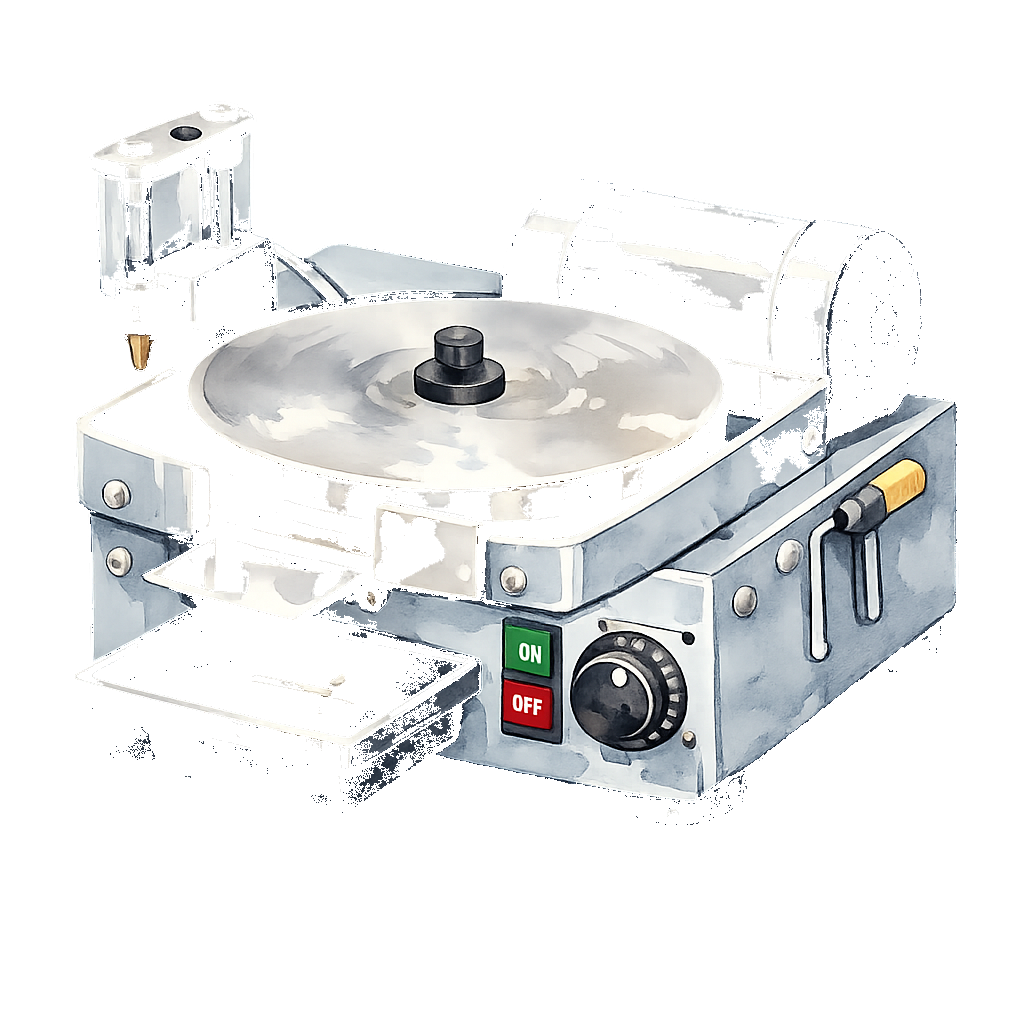
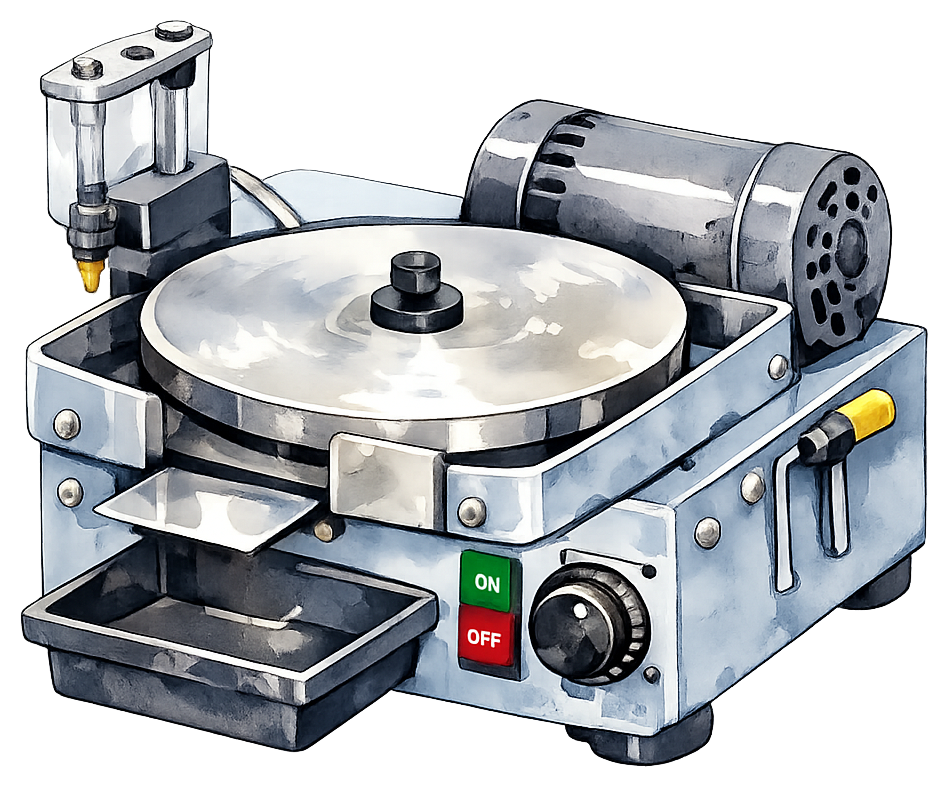
527

diff --git a/styles.css b/styles.css
@@ -14054,3 +14054,103 @@ html[data-device-class="phone"][data-orientation="landscape"] body:not([data-scr
 .gray-hood-aquarium-reward img{width:min(620px,86vw);max-height:55vh;object-fit:contain}.gray-hood-aquarium-reward strong{font-size:clamp(28px,5vw,54px)}.gray-hood-aquarium-reward span{font-size:clamp(18px,2.5vw,28px)}
 .aquarium-game-screen{position:fixed;inset:0;z-index:50;background:#02070b}.aquarium-game-frame{width:100%;height:100%;border:0;display:block}.aquarium-game-close{position:fixed;z-index:52;top:max(10px,env(safe-area-inset-top));left:max(10px,env(safe-area-inset-left));border:1px solid rgba(255,255,255,.45);border-radius:999px;background:rgba(0,0,0,.72);color:#fff;padding:10px 16px;font-weight:700}
 @media (orientation:portrait){.gray-hood-character-area{inset:5% 0 24%}.gray-hood-character-area img{max-width:92vw;max-height:72%}.gray-hood-aquarium-reward img{max-height:42vh}}
+
+/* v0.10.525: クイズ王4択画面を人物中心の縦配置へ再調整
+   - 人物を上部〜中央へ大きく表示
+   - 問題枠は内容量に合わせて画面下へ配置
+   - 問題文と選択肢の間に生じていた大きな空白を解消 */
+@media (orientation:portrait), (max-aspect-ratio:1/1){
+  html[data-device-class="phone"][data-orientation="portrait"] body[data-screen="okachimachiQuiz"] .okachimachi-quiz-event.quiz-stage-question{
+    display:grid!important;
+    grid-template-columns:minmax(0,1fr)!important;
+    grid-template-rows:minmax(0,1fr) auto!important;
+    align-items:stretch!important;
+    gap:clamp(3px,.8vh,7px)!important;
+    padding:max(4px,var(--safe-top,0px)) clamp(5px,1.8vw,8px) max(5px,var(--safe-bottom,0px))!important;
+    overflow:hidden!important;
+  }
+
+  html[data-device-class="phone"][data-orientation="portrait"] body[data-screen="okachimachiQuiz"] .okachimachi-quiz-event.quiz-stage-question .quiz-character-area{
+    grid-column:1!important;
+    grid-row:1!important;
+    position:relative!important;
+    inset:auto!important;
+    width:100%!important;
+    height:100%!important;
+    min-width:0!important;
+    min-height:0!important;
+    padding:clamp(3px,.8vh,9px) 0 0!important;
+    display:flex!important;
+    align-items:center!important;
+    justify-content:center!important;
+    overflow:hidden!important;
+    transform:none!important;
+  }
+
+  html[data-device-class="phone"][data-orientation="portrait"] body[data-screen="okachimachiQuiz"] .okachimachi-quiz-event.quiz-stage-question .quiz-character-image{
+    display:block!important;
+    width:min(94vw,430px)!important;
+    height:100%!important;
+    min-width:0!important;
+    min-height:0!important;
+    max-width:94vw!important;
+    max-height:100%!important;
+    margin:auto!important;
+    object-fit:contain!important;
+    object-position:center center!important;
+    transform:none!important;
+    transform-origin:center center!important;
+  }
+
+  html[data-device-class="phone"][data-orientation="portrait"] body[data-screen="okachimachiQuiz"] .okachimachi-quiz-event.quiz-stage-question .quiz-question-panel{
+    grid-column:1!important;
+    grid-row:2!important;
+    align-self:end!important;
+    justify-self:stretch!important;
+    display:flex!important;
+    flex-direction:column!important;
+    width:100%!important;
+    height:auto!important;
+    min-height:0!important;
+    max-width:none!important;
+    max-height:min(48dvh,430px)!important;
+    margin:0!important;
+    padding:10px 10px 12px!important;
+    gap:7px!important;
+    overflow-y:auto!important;
+    overscroll-behavior:contain!important;
+  }
+
+  html[data-device-class="phone"][data-orientation="portrait"] body[data-screen="okachimachiQuiz"] .okachimachi-quiz-event.quiz-stage-question .quiz-question-kicker{
+    flex:0 0 auto!important;
+    align-self:flex-start!important;
+    margin:0!important;
+  }
+
+  html[data-device-class="phone"][data-orientation="portrait"] body[data-screen="okachimachiQuiz"] .okachimachi-quiz-event.quiz-stage-question .quiz-question-panel h2{
+    flex:0 0 auto!important;
+    margin:0!important;
+  }
+
+  html[data-device-class="phone"][data-orientation="portrait"] body[data-screen="okachimachiQuiz"] .okachimachi-quiz-event.quiz-stage-question .quiz-answer-grid{
+    flex:0 0 auto!important;
+    width:100%!important;
+    margin-top:0!important;
+    align-content:start!important;
+  }
+}
+
+@media (orientation:portrait) and (max-height:650px){
+  html[data-device-class="phone"][data-orientation="portrait"] body[data-screen="okachimachiQuiz"] .okachimachi-quiz-event.quiz-stage-question .quiz-question-panel{
+    max-height:52dvh!important;
+    padding:8px 9px 9px!important;
+    gap:5px!important;
+  }
+  html[data-device-class="phone"][data-orientation="portrait"] body[data-screen="okachimachiQuiz"] .okachimachi-quiz-event.quiz-stage-question .quiz-answer-grid{
+    gap:6px!important;
+  }
+  html[data-device-class="phone"][data-orientation="portrait"] body[data-screen="okachimachiQuiz"] .okachimachi-quiz-event.quiz-stage-question .quiz-answer-button{
+    min-height:52px!important;
+    padding:.44rem .55rem!important;
+  }
+}

diff --git a/sw.js b/sw.js
@@ -1,9 +1,9 @@
-const VERSION = '0.10.524';
+const VERSION = '0.10.527';
 const APP_CACHE = `jewelrygame-app-v${VERSION}`;
 const RUNTIME_CACHE = `jewelrygame-runtime-v${VERSION}`;
 const APP_SHELL = [
-  './', './index.html', './game.html', './auth.html', './viewport-shell.css', './viewport-shell.js', './styles.css',
-  './manifest.webmanifest', './js/app.js', './js/audio.js', './js/audio-scene-map.js', './js/game-data.js', './js/kaitenzushi-embedded.js?v=0.10.524', './js/daily-gems.js?v=0.10.524', './js/japan-holidays.js', './js/firebase-config.js', './js/google-auth-bridge.js',
+  './', './index.html', './game.html', './auth.html', './hosting-origin-guard.js', './viewport-shell.css', './viewport-shell.js', './styles.css',
+  './manifest.webmanifest', './js/app.js', './js/audio.js', './js/audio-scene-map.js', './js/game-data.js', './js/kaitenzushi-embedded.js?v=0.10.527', './js/daily-gems.js?v=0.10.527', './js/japan-holidays.js', './js/firebase-config.js', './js/google-auth-bridge.js',
   './js/security-config.js', './js/firebase-service.js', './data/metals.json', './data/jewelry_okachimachi_quiz_200_game_format.json',
   './data/daily-gems-365.json', './data/cinema-event-videos.json', './assets/minigames/kaitenzushi/game/index.html', './assets/images/main.webp', './assets/images/main-portrait.webp', './assets/images/main-menu.webp', './assets/images/main-menu-portrait.webp', './assets/images/today-gem.webp',
   './assets/images/tools/placeholder.svg', './assets/images/tools/jewelry-bench.png', './assets/images/tools/loupe.png', './assets/images/tools/gem-polishing-machine.png', './assets/images/tools/diamond-polishing-lap.png', './assets/images/tools/piercing-saw.png', './assets/images/tools/nipper.png', './assets/images/tools/electronic-scale.png', './assets/images/tools/wood-block.png', './assets/images/tools/dividers.png', './assets/images/tools/milgrain-tool.png', './assets/images/tools/rolling-mill.png', './assets/images/tools/file.png', './assets/images/tools/pliers.png', './assets/images/tools/torch.png', './assets/images/tools/hammer.png', './assets/images/tools/magnifier.png', './assets/images/tools/bench-peg.png', './assets/images/tools/graver.png', './assets/images/tools/engraving-block.png', './assets/images/tools/stamps.png', './assets/images/tools/rotary-tool.png', './assets/images/tools/buffer.png', './assets/images/tools/ultrasonic-cleaner.png', './assets/images/events/indian-restaurant-manager.png', './assets/images/robbery-newspaper.webp', './assets/images/equipment/basic-pickaxe.png', './assets/images/customers/customer-placeholder.svg',
@@ -15,9 +15,9 @@ const APP_SHELL = [
 ];
 
 const CORE_SHELL = [
-  './', './index.html', './game.html', './viewport-shell.css', './viewport-shell.js', './styles.css',
+  './', './index.html', './game.html', './hosting-origin-guard.js', './viewport-shell.css', './viewport-shell.js', './styles.css',
   './manifest.webmanifest', './js/app.js', './js/audio.js', './js/audio-scene-map.js', './js/game-data.js',
-  './js/kaitenzushi-embedded.js?v=0.10.524', './js/daily-gems.js?v=0.10.524', './js/japan-holidays.js', './js/firebase-config.js',
+  './js/kaitenzushi-embedded.js?v=0.10.527', './js/daily-gems.js?v=0.10.527', './js/japan-holidays.js', './js/firebase-config.js',
   './js/google-auth-bridge.js', './js/security-config.js', './js/firebase-service.js',
 ];
 

diff --git a/index.html b/index.html
@@ -4,6 +4,7 @@
   <meta charset="utf-8">
   <meta name="viewport" content="width=device-width,initial-scale=1,viewport-fit=cover,user-scalable=no">
   <meta http-equiv="Content-Security-Policy" content="default-src 'self'; base-uri 'self'; object-src 'none'; script-src 'self' https://www.gstatic.com https://apis.google.com https://www.google.com https://www.recaptcha.net; style-src 'self' 'unsafe-inline'; img-src 'self' data: blob: https://www.gstatic.com https://*.googleusercontent.com; media-src 'self' blob:; font-src 'self' data:; connect-src 'self' https://*.googleapis.com https://*.firebaseio.com wss://*.firebaseio.com https://*.firebaseapp.com https://accounts.google.com https://*.google.com https://www.recaptcha.net https://*.gstatic.com; frame-src 'self' https://*.firebaseapp.com https://accounts.google.com https://www.google.com https://www.recaptcha.net; worker-src 'self' blob:; child-src 'self' blob:; manifest-src 'self'; form-action 'self' https://accounts.google.com; upgrade-insecure-requests">
+  <script src="./hosting-origin-guard.js?v=0.10.527"></script>
   <meta name="referrer" content="strict-origin-when-cross-origin">
   <meta name="theme-color" content="#130e09">
   <meta name="mobile-web-app-capable" content="yes">
@@ -14,20 +15,20 @@
   <link rel="manifest" href="./manifest.webmanifest">
   <link rel="icon" href="./assets/icons/favicon.png">
   <link rel="apple-touch-icon" href="./assets/icons/apple-touch-icon.png">
-  <link rel="stylesheet" href="./viewport-shell.css?v=0.10.524">
+  <link rel="stylesheet" href="./viewport-shell.css?v=0.10.527">
 </head>
 <body>
   <main id="viewport-safe-area" aria-label="JEWELRY×JEWELRY">
     <div id="device-stage">
       <iframe
         id="game-frame"
-        src="./game.html?v=0.10.524"
+        src="./game.html?v=0.10.527"
         title="JEWELRY×JEWELRY"
         allow="autoplay; clipboard-write; identity-credentials-get"
         referrerpolicy="strict-origin-when-cross-origin"
       ></iframe>
     </div>
   </main>
-  <script src="./viewport-shell.js?v=0.10.524"></script>
+  <script src="./viewport-shell.js?v=0.10.527"></script>
 </body>
 </html>

diff --git a/game.html b/game.html
@@ -4,6 +4,7 @@
   <meta charset="utf-8">
   <meta name="viewport" content="width=device-width,initial-scale=1,viewport-fit=cover,user-scalable=no">
   <meta http-equiv="Content-Security-Policy" content="default-src 'self'; base-uri 'self'; object-src 'none'; script-src 'self' 'nonce-jxj-kaitenzushi' https://www.gstatic.com https://apis.google.com https://www.google.com https://www.recaptcha.net; style-src 'self' 'unsafe-inline'; img-src 'self' data: blob: https://www.gstatic.com https://*.googleusercontent.com; media-src 'self' blob:; font-src 'self' data:; connect-src 'self' https://*.googleapis.com https://*.firebaseio.com wss://*.firebaseio.com https://*.firebaseapp.com https://accounts.google.com https://*.google.com https://www.recaptcha.net https://*.gstatic.com; frame-src 'self' https://*.firebaseapp.com https://accounts.google.com https://www.google.com https://www.recaptcha.net; worker-src 'self' blob:; child-src 'self' blob:; manifest-src 'self'; form-action 'self' https://accounts.google.com; upgrade-insecure-requests">
+  <script src="./hosting-origin-guard.js?v=0.10.527"></script>
   <meta name="referrer" content="strict-origin-when-cross-origin">
   <meta name="theme-color" content="#130e09">
   <meta name="mobile-web-app-capable" content="yes">
@@ -14,7 +15,7 @@
   <link rel="manifest" href="./manifest.webmanifest">
   <link rel="icon" href="./assets/icons/favicon.png">
   <link rel="apple-touch-icon" href="./assets/icons/apple-touch-icon.png">
-  <link rel="stylesheet" href="./styles.css?v=0.10.524">
+  <link rel="stylesheet" href="./styles.css?v=0.10.527">
 </head>
 <body>
   <div id="background-layer" aria-hidden="true"></div>
@@ -24,6 +25,6 @@
   <div id="modal-layer" class="hidden"></div>
   <div id="sleep-curtain" aria-hidden="true"></div>
   <div id="morning-brief" aria-live="polite"></div>
-  <script type="module" src="./js/app.js?v=0.10.524"></script>
+  <script type="module" src="./js/app.js?v=0.10.527"></script>
 </body>
 </html>

diff --git a/js/app.js b/js/app.js
@@ -7,8 +7,8 @@ import {
 import { configureAudio, unlockAudio, applyAudioSettings, switchAudio, updateMainEnvironment, playSfx, startPoliceSiren, stopPoliceSiren, vibrate, suspendAudio, resumeAudio, stopMealAudio, duckCurrentAmbient } from './audio.js';
 import { resolveAudioScene } from './audio-scene-map.js';
 import { japaneseHolidayName } from './japan-holidays.js';
-import { DAILY_GEM_PROFILES, dailyGemForDate } from './daily-gems.js?v=0.10.524';
-import { KAITENZUSHI_EMBEDDED_HTML } from './kaitenzushi-embedded.js?v=0.10.524';
+import { DAILY_GEM_PROFILES, dailyGemForDate } from './daily-gems.js?v=0.10.527';
+import { KAITENZUSHI_EMBEDDED_HTML } from './kaitenzushi-embedded.js?v=0.10.527';
 import {
   initializeFirebase, observeAuth, emailLogin, emailSignup, logout,
   needsEmailVerification, resendVerificationEmail, refreshAuthUser, requestPasswordReset, currentProviderKind,

diff --git a/hosting-origin-guard.js b/hosting-origin-guard.js
@@ -1,0 +1,19 @@
+(() => {
+  'use strict';
+
+  const LEGACY_HOST = 'cadgosho-dot.github.io';
+  const LEGACY_BASE_PATH = '/jewelrygame';
+  const CANONICAL_ORIGIN = 'https://jewelrygame.firebaseapp.com';
+
+  if (window.location.hostname !== LEGACY_HOST) return;
+
+  let targetPath = window.location.pathname || '/';
+  if (targetPath === LEGACY_BASE_PATH || targetPath === `${LEGACY_BASE_PATH}/`) {
+    targetPath = '/';
+  } else if (targetPath.startsWith(`${LEGACY_BASE_PATH}/`)) {
+    targetPath = targetPath.slice(LEGACY_BASE_PATH.length) || '/';
+  }
+
+  const target = `${CANONICAL_ORIGIN}${targetPath}${window.location.search}${window.location.hash}`;
+  window.location.replace(target);
+})();

diff --git a/js/game-data.js b/js/game-data.js
@@ -1,4 +1,4 @@
-export const VERSION = '0.10.524';
+export const VERSION = '0.10.527';
 export const SAVE_SCHEMA_VERSION = 1;
 export const DEFAULT_BIRTHDAY = '04-01';
 export const SAVE_KEY = 'jewelrygame-clean-v0.4.0';

diff --git a/CHANGELOG.md b/CHANGELOG.md
@@ -1,3 +1,29 @@
+# v0.10.527
+
+- Firebase Hosting用の設定を追加し、正式公開先を `https://jewelrygame.firebaseapp.com/` に変更。
+- GitHub PagesとFirebase認証ドメインが分かれることで、直接リンク時のアプリ内ブラウザでGoogleログイン状態を引き継げない問題を解消。
+- 旧URL `https://cadgosho-dot.github.io/jewelrygame/` から新しい正式URLへ自動転送する処理を追加。
+- 通常の入口、PWAの直接起動、認証画面への復帰を同じFirebase Hostingオリジンへ統一。
+- Firebase HostingのHTML・Service Workerキャッシュ制御と初回公開スクリプトを追加。
+- Firebaseプロジェクト、Firestoreデータ、認証ユーザー、セーブ形式は変更なし。
+
+# v0.10.526
+
+- 宝石研磨用平面研磨機の画像を、ユーザー提供画像を基準にした背景透明PNGへ差し替え。
+- 木台の画像を、ユーザー提供画像を基準にした背景透明PNGへ差し替え。
+- リューターの画像を、ユーザー提供画像を基準にした背景透明PNGへ差し替え。
+- ローラーの画像を、最後に指定されたユーザー提供画像を基準にした背景透明PNGへ差し替え。
+- ミルタガネの画像を、最後に指定されたユーザー提供画像を基準にした背景透明PNGへ差し替え。
+- 各画像を対象物の輪郭に沿ってトリミングし、透明余白を調整。
+- アプリのバージョンを0.10.526へ更新。
+
+# v0.10.525
+
+- 縦画面のクイズ王4択画面で、キャラクターを上部から中央にかけて大きく表示するよう再配置。
+- 問題枠の高さを固定比率ではなく内容量に合わせ、画面下部へまとめて表示。
+- 問題文と選択肢の間に生じていた大きな空白を解消。
+- 問題内容、選択肢、正誤判定、報酬処理、横画面レイアウトは変更なし。
+
 # v0.10.524
 
 - 通常時のオートセーブ表示を非表示化。
